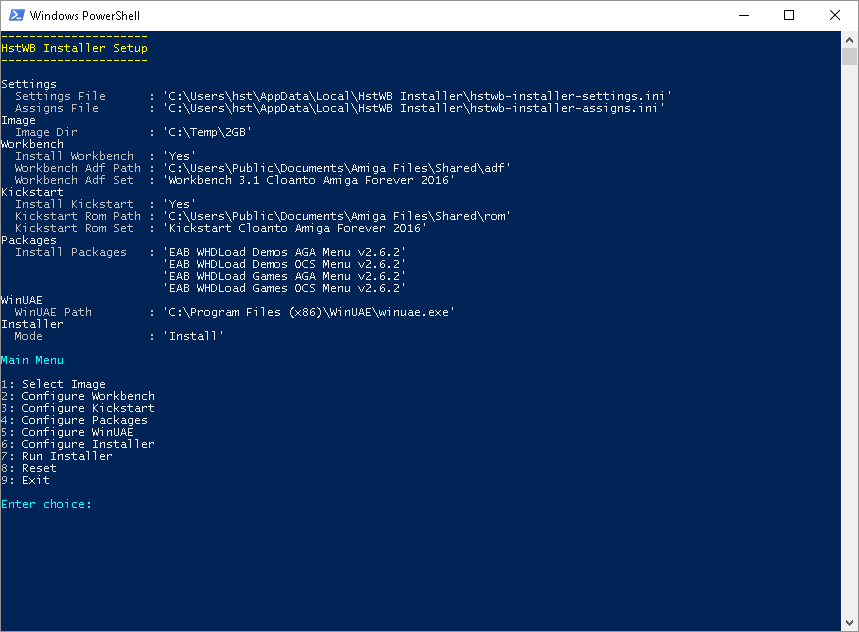
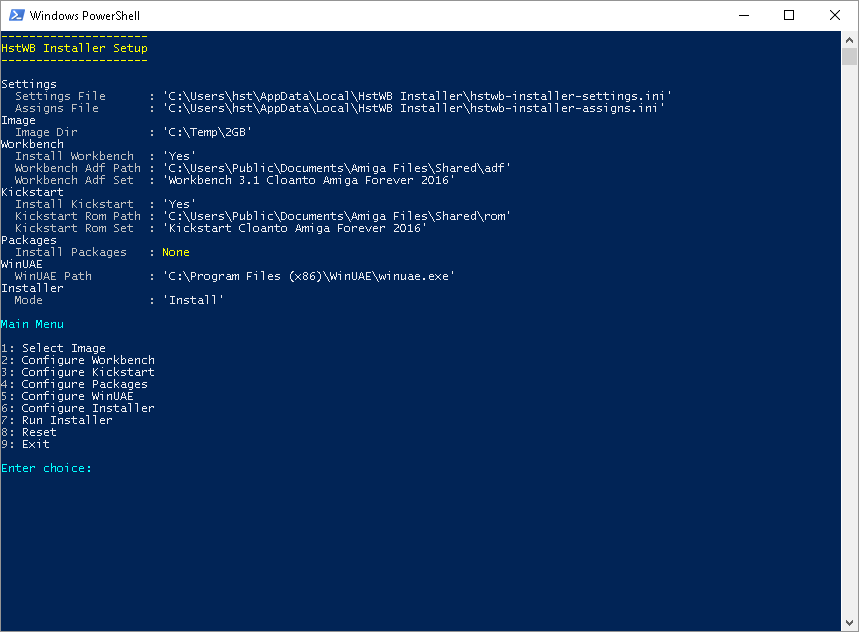
Updated build package installation screenshots

diff --git a/README.md b/README.md
@@ -656,6 +656,8 @@ Start HstWB Installer Setup.
 
 ![build_package_installation_7.png](screenshots/build_package_installation_7.png?raw=true)
 
+![build_package_installation_8.png](screenshots/build_package_installation_8.png?raw=true)
+
 ### Tutorial 5: Running package installation in an emulator or on real Amiga
 
 TODO.
